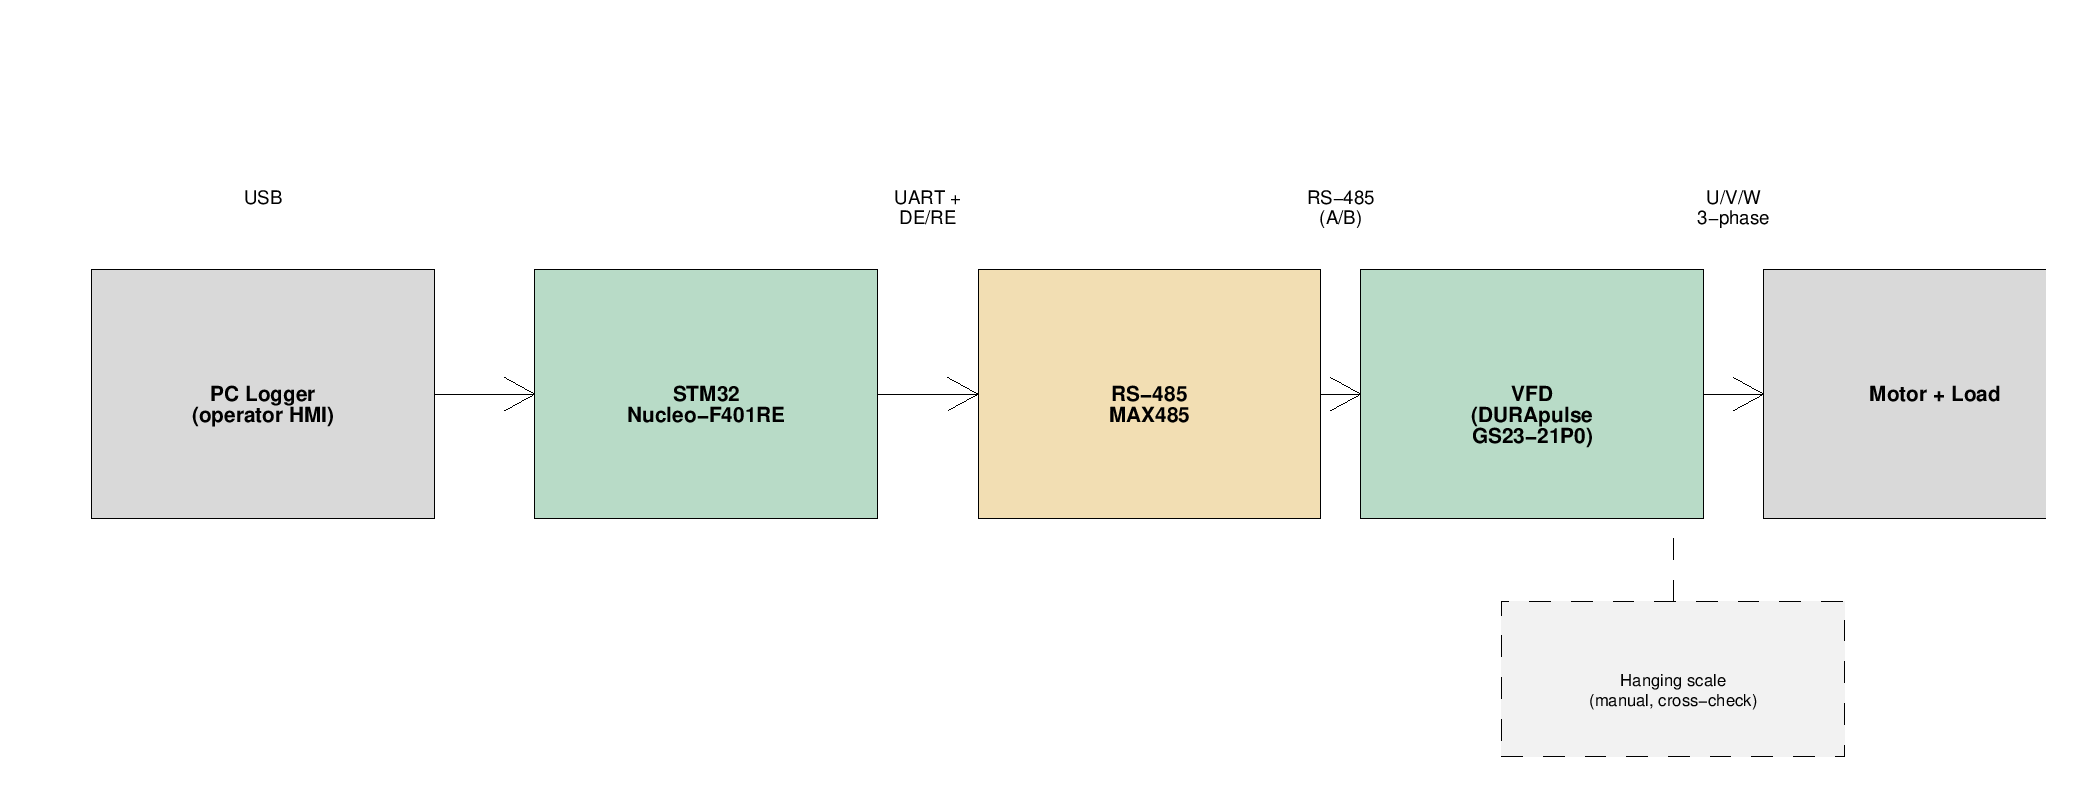
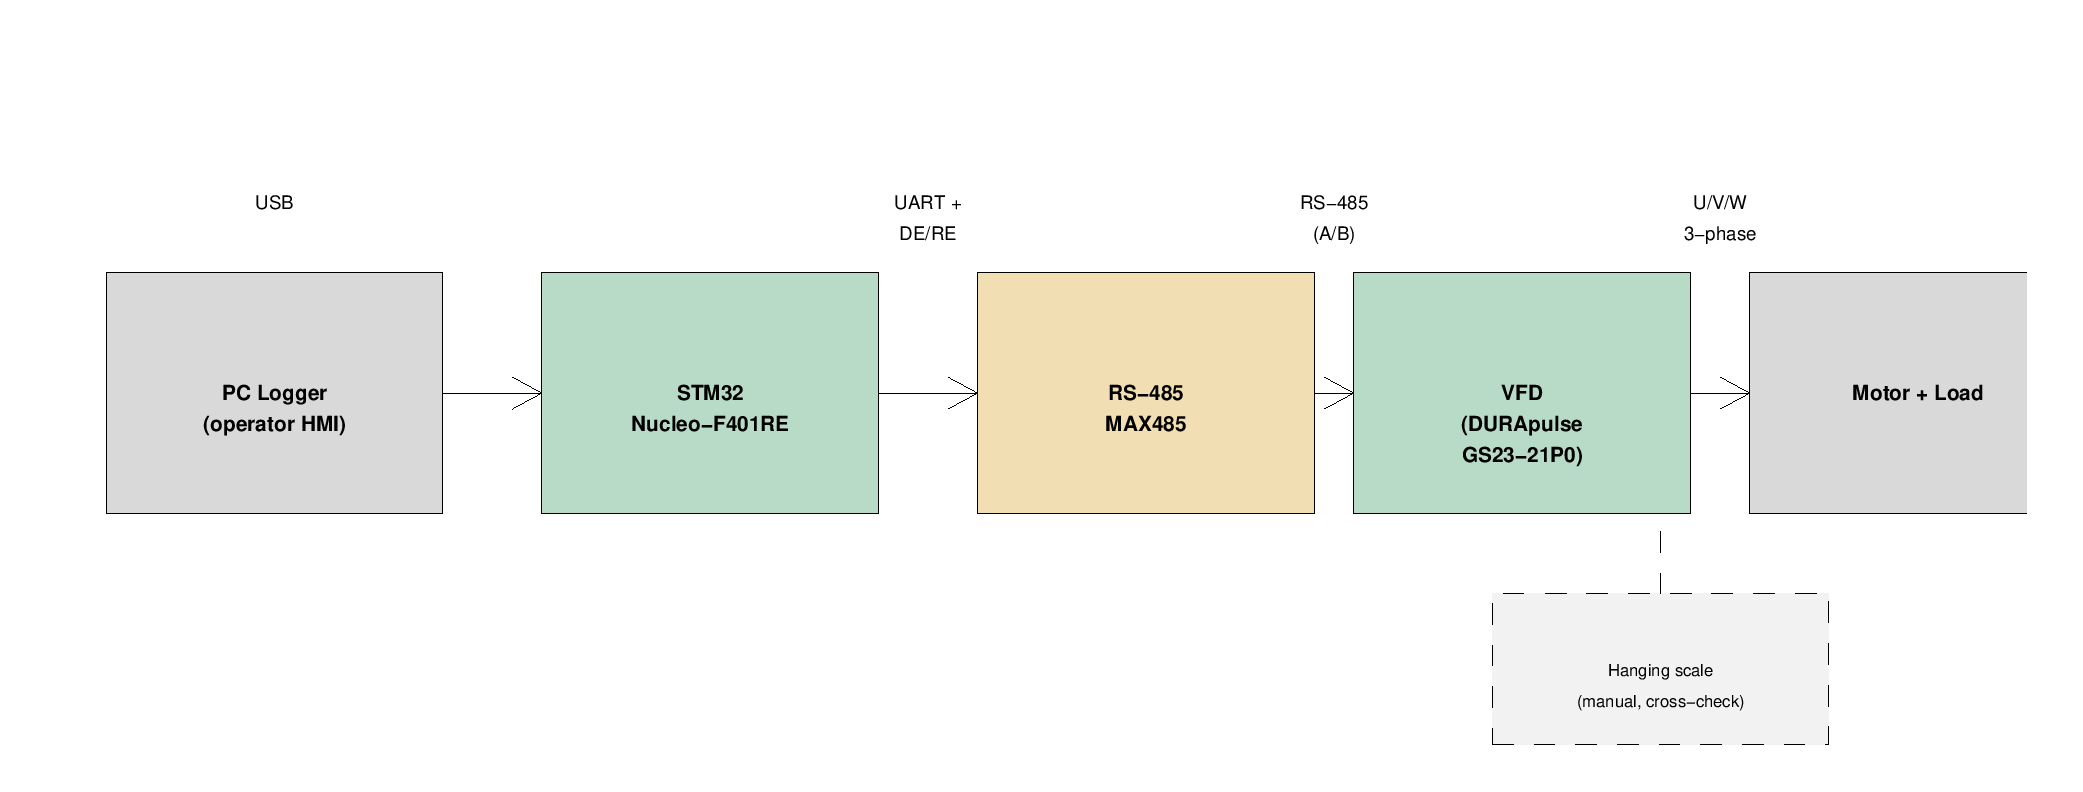
Resolve 43 Rev 3 Word review comments on the paper; enlarge all figures
David attached a Rev 3 copy of the paper with 43 tracked comments that had
never reached this session before now. Addressed all but two (Fig. 1
redesign and an RJ45 close-up photo, both flagged as pending items needing
David directly).

Bumped all default text/axes font sizes in generate_figures.m and removed
wire colors from the RS-485 diagram (signal names only - A/B/GND). Fixed a
gnuplot text-escaping bug where literal '@' characters in data labels were
silently mangling the following text.

Claude-Session: https://claude.ai/code/session_01KDBgZS5sBDtdZcqbVDmcN3

diff --git a/tools/matlab/generate_figures.m b/tools/matlab/generate_figures.m
@@ -1,4 +1,4 @@
-% generate_figures.m  (Rev 5)
+% generate_figures.m  (Rev 6)
 %
 % Sensorless Load Estimation Using Motor Slip on a Low-Cost VFD-Driven Induction Motor
 % Single script, regenerates every figure in the paper/deck directly from logged data.
@@ -36,6 +36,14 @@
 % one, not recomputed.
 
 clear; clc; close all;
+
+% Paper figures get embedded small (IEEE two-column), so default text/axes
+% sizes are bumped well above Octave's defaults to stay legible there -
+% flagged as too small to read in Rev 3 review comments.
+set(0, 'DefaultAxesFontSize', 15);
+set(0, 'DefaultTextFontSize', 15);
+set(0, 'DefaultLineLineWidth', 2.2);
+set(0, 'DefaultAxesLineWidth', 1.1);
 
 THIS_DIR = fileparts(mfilename('fullpath'));
 REPO_ROOT = fileparts(fileparts(THIS_DIR)); % tools/matlab -> tools -> repo root
@@ -136,30 +144,32 @@ axis([0 10 0 5]); axis off; hold on;
 
 % Three boxes: VFD RJ45, MAX485 module, STM32 Nucleo
 rectangle('Position', [0.3, 1.6, 2.3, 1.8], 'FaceColor', [0.72 0.86 0.78], 'LineWidth', 1.5);
-text(1.45, 3.0, 'VFD RJ45\n(RS-485 port)', 'HorizontalAlignment', 'center', 'FontWeight', 'bold', 'FontSize', 10);
+text(1.45, 3.0, 'VFD RJ45\n(RS-485 port)', 'HorizontalAlignment', 'center', 'FontWeight', 'bold', 'FontSize', 13);
 rectangle('Position', [3.85, 1.0, 2.3, 3.0], 'FaceColor', [0.95 0.87 0.70], 'LineWidth', 1.5);
-text(5.0, 3.65, 'MAX485', 'HorizontalAlignment', 'center', 'FontWeight', 'bold', 'FontSize', 10);
+text(5.0, 3.65, 'MAX485', 'HorizontalAlignment', 'center', 'FontWeight', 'bold', 'FontSize', 13);
 rectangle('Position', [7.4, 1.6, 2.3, 1.8], 'FaceColor', [0.72 0.86 0.78], 'LineWidth', 1.5);
-text(8.55, 3.0, 'STM32\nNucleo-F401RE', 'HorizontalAlignment', 'center', 'FontWeight', 'bold', 'FontSize', 10);
+text(8.55, 3.0, 'STM32\nNucleo-F401RE', 'HorizontalAlignment', 'center', 'FontWeight', 'bold', 'FontSize', 13);
 
-% VFD <-> MAX485 pin pairs (Table III)
-vfd_pins = {'Blue -> B', 'White/Blue -> A', 'White/Green -> GND'};
+% VFD <-> MAX485 pin pairs (Table III). Signal names only, no wire colors -
+% colors are documented separately in docs/wiring.md for anyone re-wiring it;
+% this figure is the signal map.
+vfd_pins = {'A', 'B', 'GND'};
 for k = 1:3
   y = 2.9 - (k-1)*0.55;
-  line([2.6 3.85], [y y], 'Color', 'k', 'LineWidth', 1.2);
-  text(3.2, y+0.15, vfd_pins{k}, 'HorizontalAlignment', 'center', 'FontSize', 7.5);
+  line([2.6 3.85], [y y], 'Color', 'k', 'LineWidth', 1.5);
+  text(3.2, y+0.17, vfd_pins{k}, 'HorizontalAlignment', 'center', 'FontSize', 11, 'FontWeight', 'bold');
 end
 
 % MAX485 <-> STM32 pin pairs
 stm_pins = {'VCC -> 3.3V', 'DI -> D8', 'DE -> D7', 'RE -> D7', 'RO -> D2'};
 for k = 1:5
   y = 3.7 - (k-1)*0.55;
-  line([6.15 7.4], [y y], 'Color', 'k', 'LineWidth', 1.2);
-  text(6.775, y+0.15, stm_pins{k}, 'HorizontalAlignment', 'center', 'FontSize', 7.5);
+  line([6.15 7.4], [y y], 'Color', 'k', 'LineWidth', 1.5);
+  text(6.775, y+0.17, stm_pins{k}, 'HorizontalAlignment', 'center', 'FontSize', 10.5);
 end
 
 text(5.0, 0.55, 'DE and RE tied together to one GPIO (D7) - asserted only while transmitting', ...
-     'HorizontalAlignment', 'center', 'FontSize', 8, 'FontAngle', 'italic');
+     'HorizontalAlignment', 'center', 'FontSize', 10.5, 'FontAngle', 'italic');
 saveas(fig, fullfile(OUT_DIR, 'fig2_rs485_wiring.png'));
 close(fig);
 
@@ -167,7 +177,7 @@ close(fig);
 % Figure 4: No-load baseline - slip and current vs. frequency, two panels
 % (Fig. 3 is the Drum_Rev_0 CAD render, produced separately - not by this script)
 % ============================================================================
-fig = figure('Visible', 'off', 'Position', [0 0 1100 450]);
+fig = figure('Visible', 'off', 'Position', [0 0 1300 520]);
 is_noload = (total_kg == 0);
 
 % Plot against the fixed 4-point frequency grid, NaN-filled where no no-load
@@ -210,7 +220,7 @@ close(fig);
 % ============================================================================
 % Figure 5: Calibrated model - current vs load, up-direction, one fit per frequency
 % ============================================================================
-fig = figure('Visible', 'off', 'Position', [0 0 900 600]);
+fig = figure('Visible', 'off', 'Position', [0 0 1000 680]);
 hold on;
 colors = [0.11 0.34 0.22; 0.72 0.59 0.36; 0.55 0.0 0.0; 0.2 0.4 0.75];
 markers = {'o', 's', '^', 'd'};
@@ -240,24 +250,27 @@ close(fig);
 
 % ============================================================================
 % Figure 6: Blind validation - predicted vs. actual
-% Transcribed from Table VIII of the paper (Resistor 1/2, T-Block - these sessions'
-% raw data was analyzed ad hoc and is not checked into results/ as a groups.csv).
+% Transcribed from Table VIII of the paper (Resistor 1/2, T-housing - these
+% sessions' raw data was analyzed ad hoc and is not checked into results/ as a
+% groups.csv).
 % ============================================================================
 actual =    [0.64, 0.64, 0.82, 0.82, 0.54, 0.54];
 predicted = [0.27, 0.18, 0.87, 0.00, 0.54, 0.00];
-labels =    {'Resistor 1 @1.44Hz','Resistor 1 @6.21Hz','Resistor 2 @2.90Hz', ...
-             'Resistor 2 @4.66Hz','T-Block @5.63Hz','T-Block @6.81Hz'};
+% Note: deliberately no '@' in these labels - Octave's gnuplot backend treats
+% it as a text-escape character and mangles the following characters.
+labels =    {'Resistor 1, 1.44 Hz','Resistor 1, 6.21 Hz','Resistor 2, 2.90 Hz', ...
+             'Resistor 2, 4.66 Hz','T-housing, 5.63 Hz','T-housing, 6.81 Hz'};
 
-fig = figure('Visible', 'off', 'Position', [0 0 800 700]);
+fig = figure('Visible', 'off', 'Position', [0 0 950 620]);
 hold on;
 plot([0 1], [0 1], 'k--', 'LineWidth', 1, 'DisplayName', 'Perfect prediction (y = x)');
-plot(actual, predicted, 'o', 'MarkerSize', 12, 'MarkerFaceColor', [0.72 0.09 0.09], 'MarkerEdgeColor', 'k', 'DisplayName', 'Blind validation point');
+plot(actual, predicted, 'o', 'MarkerSize', 10, 'MarkerFaceColor', [0.72 0.09 0.09], 'MarkerEdgeColor', 'k', 'DisplayName', 'Blind validation point');
 for i = 1:numel(actual)
-  text(actual(i) + 0.015, predicted(i), labels{i}, 'FontSize', 8);
+  text(actual(i) + 0.045, predicted(i), labels{i}, 'FontSize', 11, 'VerticalAlignment', 'middle');
 end
 xlabel('Actual Load (kg)'); ylabel('Predicted Load (kg)');
 title('Blind Validation: Predicted vs. Actual Load');
-xlim([0 1]); ylim([0 1]); axis square; legend('Location', 'northwest'); grid on;
+xlim([0 1.3]); ylim([0 1]); legend('Location', 'northwest'); grid on;
 saveas(fig, fullfile(OUT_DIR, 'fig6_blind_validation.png'));
 close(fig);
 
@@ -271,9 +284,9 @@ close(fig);
 model_forms = {'current + freq\n(linear)', '+ interaction\nterm', '+ quadratic\nfreq', 'full\n(all terms)'};
 mape = [52.0, 56.8, 56.5, 61.7];
 
-fig = figure('Visible', 'off', 'Position', [0 0 800 500]);
+fig = figure('Visible', 'off', 'Position', [0 0 900 620]);
 bar(mape, 'FaceColor', [0.11 0.34 0.22]);
-set(gca, 'XTickLabel', model_forms);
+set(gca, 'XTickLabel', model_forms, 'Position', [0.10 0.24 0.86 0.62]);
 ylabel('MAPE (%)');
 title('LOOCV Error by Model Form - More Complexity Does Not Help');
 ylim([0 70]); grid on;

diff --git a/docs/open-items.md b/docs/open-items.md
@@ -4,20 +4,26 @@ The data-acquisition and communication platform is built, wired, and validated
 end-to-end on real hardware (STM32 Nucleo-F401RE, RS-485/MAX485 to the VFD, PC-side
 logger). What remains falls into two groups: things that need an action from David
 (Section A) and lower-priority/deferred work (Section B). Every item below is cross-
-checked against the current paper (`Sensorless_Load_Estimation_IEEE_Rev5.docx`) and
-all three decks as of Rev 5.
+checked against the current paper (`Sensorless_Load_Estimation_IEEE_Rev6.docx`) and
+all four deliverables as of Rev 6.
 
 ## A. Needs an action from David
 
-### A1. Run the higher-frequency validation tests (6.36–10.00 Hz)
+### A1. Rework Fig. 1 (system block diagram) together
+Flagged in David's Rev 3 review comments: "This figure needs to be worked, let's work
+together on what this should look like." Not auto-edited — the current version (drawn
+by `tools/matlab/generate_figures.m`, boxes for PC Logger/STM32/MAX485/VFD/Motor+Load)
+stays as a placeholder in the paper until we talk through what it should actually show.
+
+### A2. Run the higher-frequency validation tests (6.36–10.00 Hz)
 All calibration and blind-validation data tops out at 6.36 Hz; the drive's confirmed
 safety cap is P01.10 = 10.00 Hz. Section V-E of the paper and Table X are reserved and
 flagged in red, waiting for this data — same procedure as the existing blind-validation
 runs (Section V-C): run a commanded frequency in that range, predict the load live
 with the calibrated model, then reveal and log the actual weight.
 
-### A2. Source two stock photos for the major deck
-Two slides in `Sensorless_Load_Estimation_Deck_Rev5.pptx` still show a dashed
+### A3. Source two stock photos for the major deck
+Two slides in `Sensorless_Load_Estimation_Deck_Rev6.pptx` still show a dashed
 placeholder box instead of a real image, since neither is a photo of this project's
 own hardware:
 - **"Our Approach" slide:** a generic photo of a dedicated torque transducer / load
@@ -25,6 +31,11 @@ own hardware:
 - **"Our Approach" slide:** a photo or logo of PAR Systems' anti-sway crane product
   (the commercial telemetry-first precedent cited as reference [1]).
 Any representative stock photo or the vendor's own product image works for both.
+
+### A4. Photo of the VFD's RJ45 jack specifically
+Requested in David's Rev 3 review comments. The paper has a wide shot of the whole
+wired VFD (Fig. 3) but not a close-up of the RJ45 jack itself where the RS-485 link
+taps in. Flagged with a red placeholder in the paper, Section III-C.
 
 ## B. Lower priority / deferred
 
@@ -81,3 +92,22 @@ of scope for the bare Nucleo without an added Ethernet/WiFi module).
   now plots the documented down-direction slip at 4.85 Hz (panel a) while correctly
   leaving a gap in current (panel b), sourced directly in
   `tools/matlab/generate_figures.m` with a comment citing the originating document.
+- **43 Rev 3 Word review comments** — David attached a Rev 3 copy of the paper with 43
+  tracked comments that had never reached this session before 2026-11-05; all but the
+  two items above (Fig. 1 redesign, RJ45 photo) are resolved in Rev 6: acronyms spelled
+  out on first use (VFD, GPIO, MRAS), Human-Machine Interface capitalized, the
+  self-referential "this paper differs from a typical capstone report" paragraph and
+  the "Offset Mistake"/"Other Contributing Factors" sections removed, wire colors
+  dropped from every table and from Fig. 4's regenerated diagram (signal names only),
+  Table I's Notes column and Table II-B's Wire Color column removed, BOM headers
+  reworded, a new VFD-parameters table (Table I-C) added introducing GSoft2, the VFD
+  photo and raw CSV screenshot promoted to numbered figures (Fig. 3/Fig. 5, with every
+  later figure renumbered to match), "T-Block" renamed to "T-housing" everywhere, a
+  slip-physics explanation added to the paper (previously only in the deck), an
+  OLS-fitting explanation added to Table VII, units clarified on r²/n, a mismatched
+  logger-row example corrected (910626 instead of 911375, matching the screenshot),
+  and all five result/diagram figures enlarged to full page width after testing showed
+  they were unreadable at IEEE two-column width - which also surfaced and fixed a
+  LibreOffice rendering defect where a short two-column section before a one-column
+  figure could split a table's header from its body across the column break. The
+  entire Results section (V) is single-column throughout as a result.
